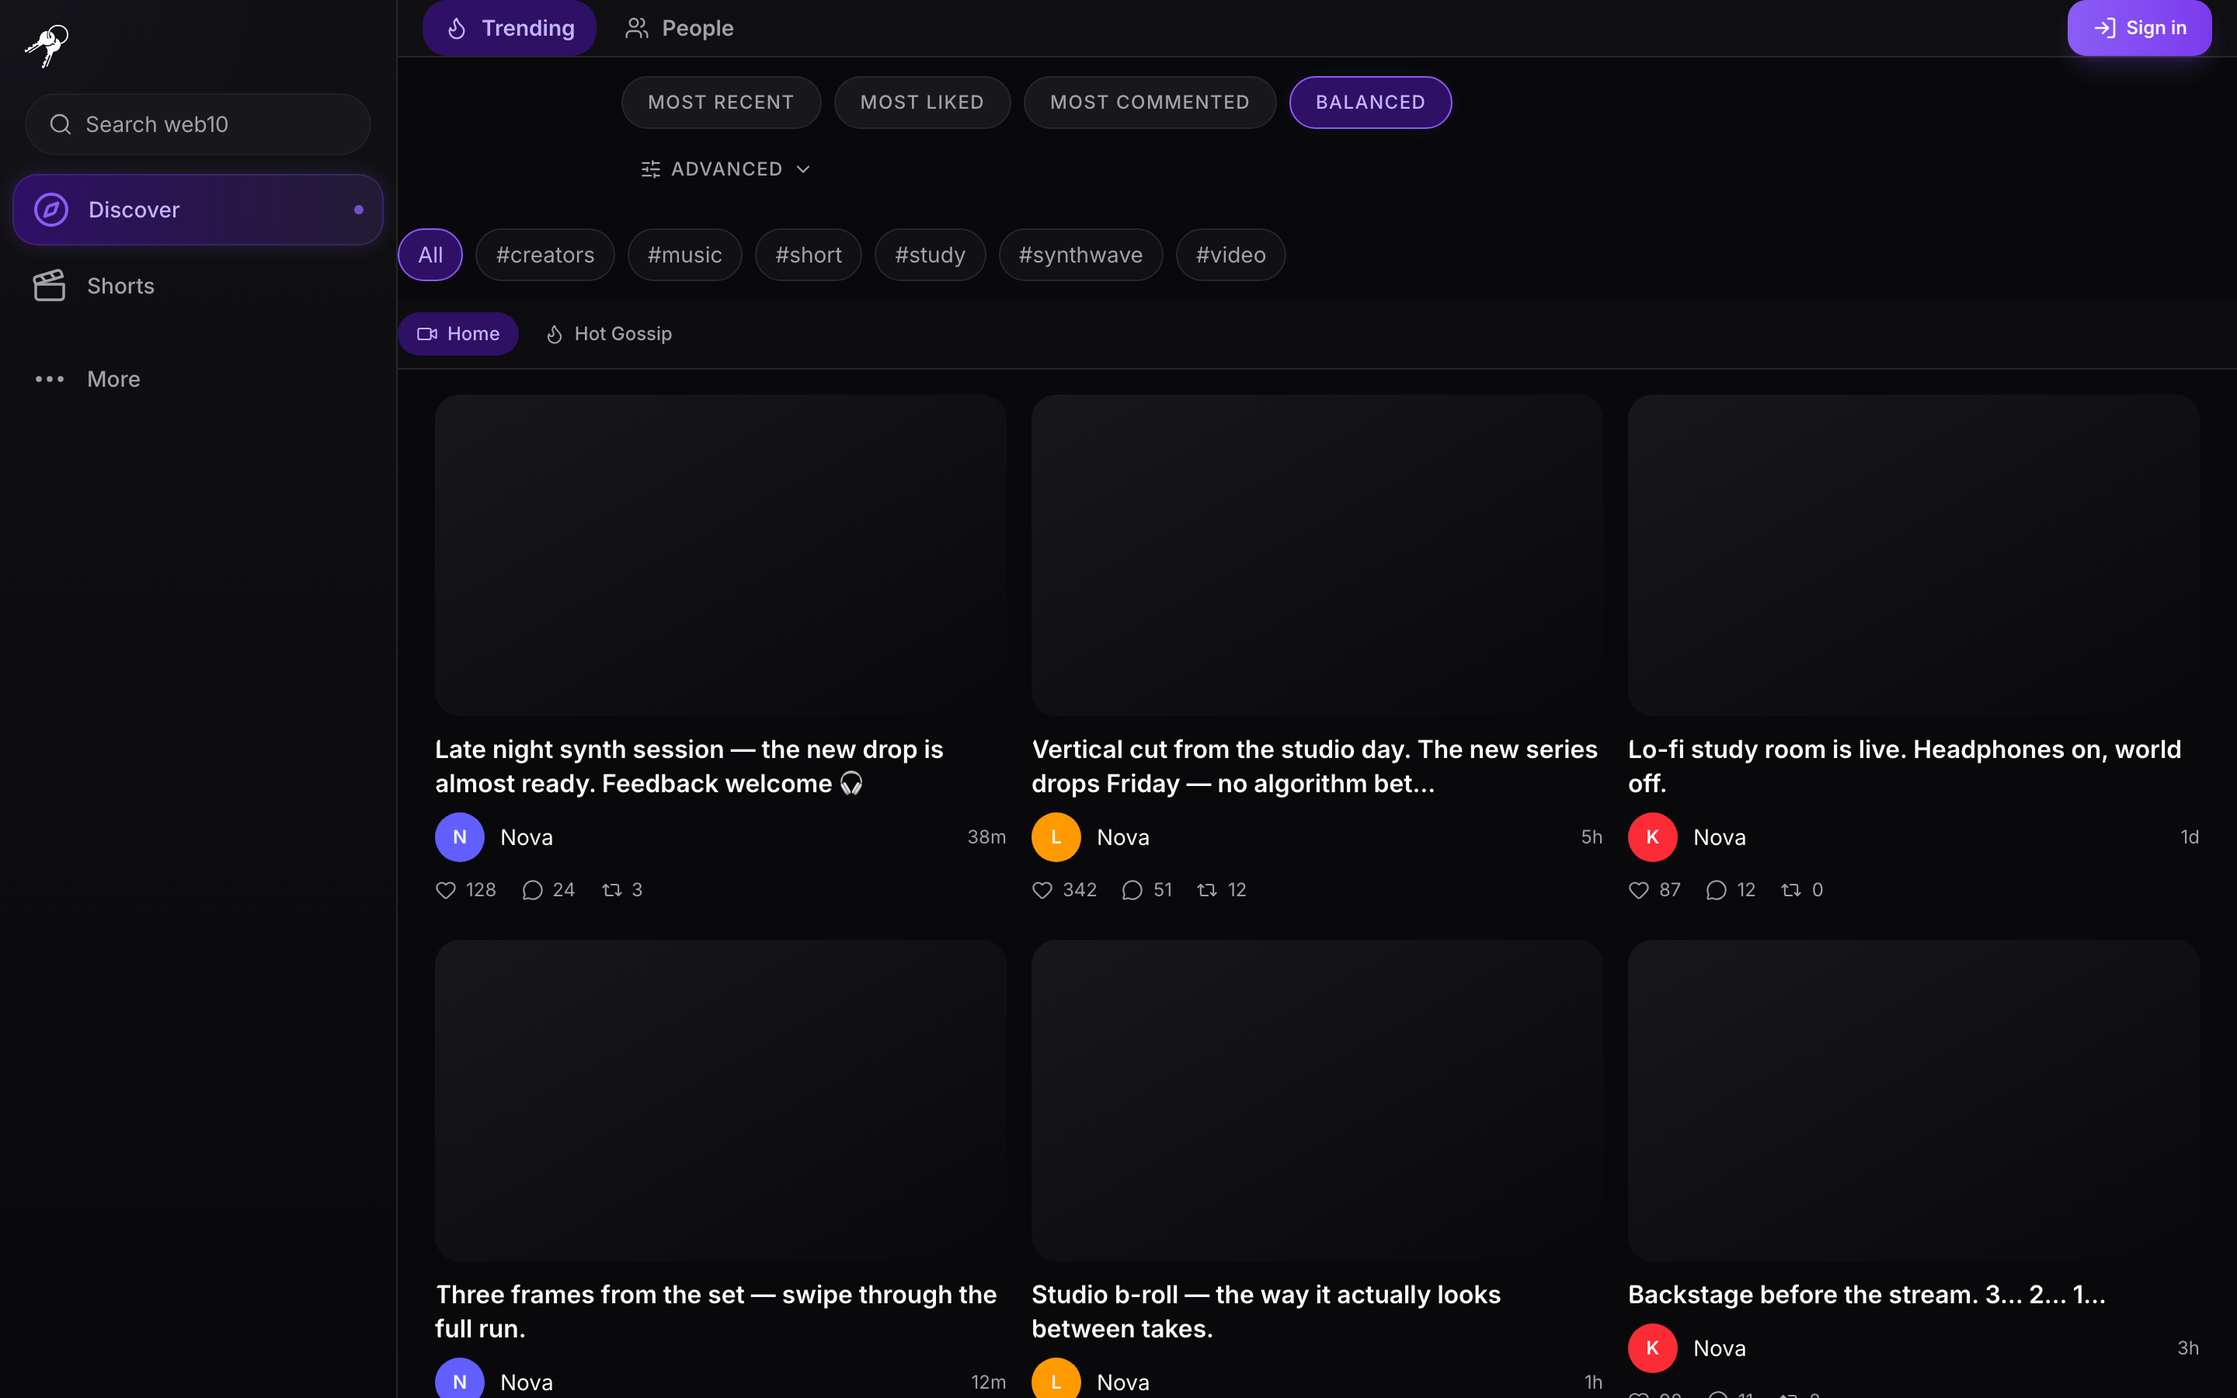
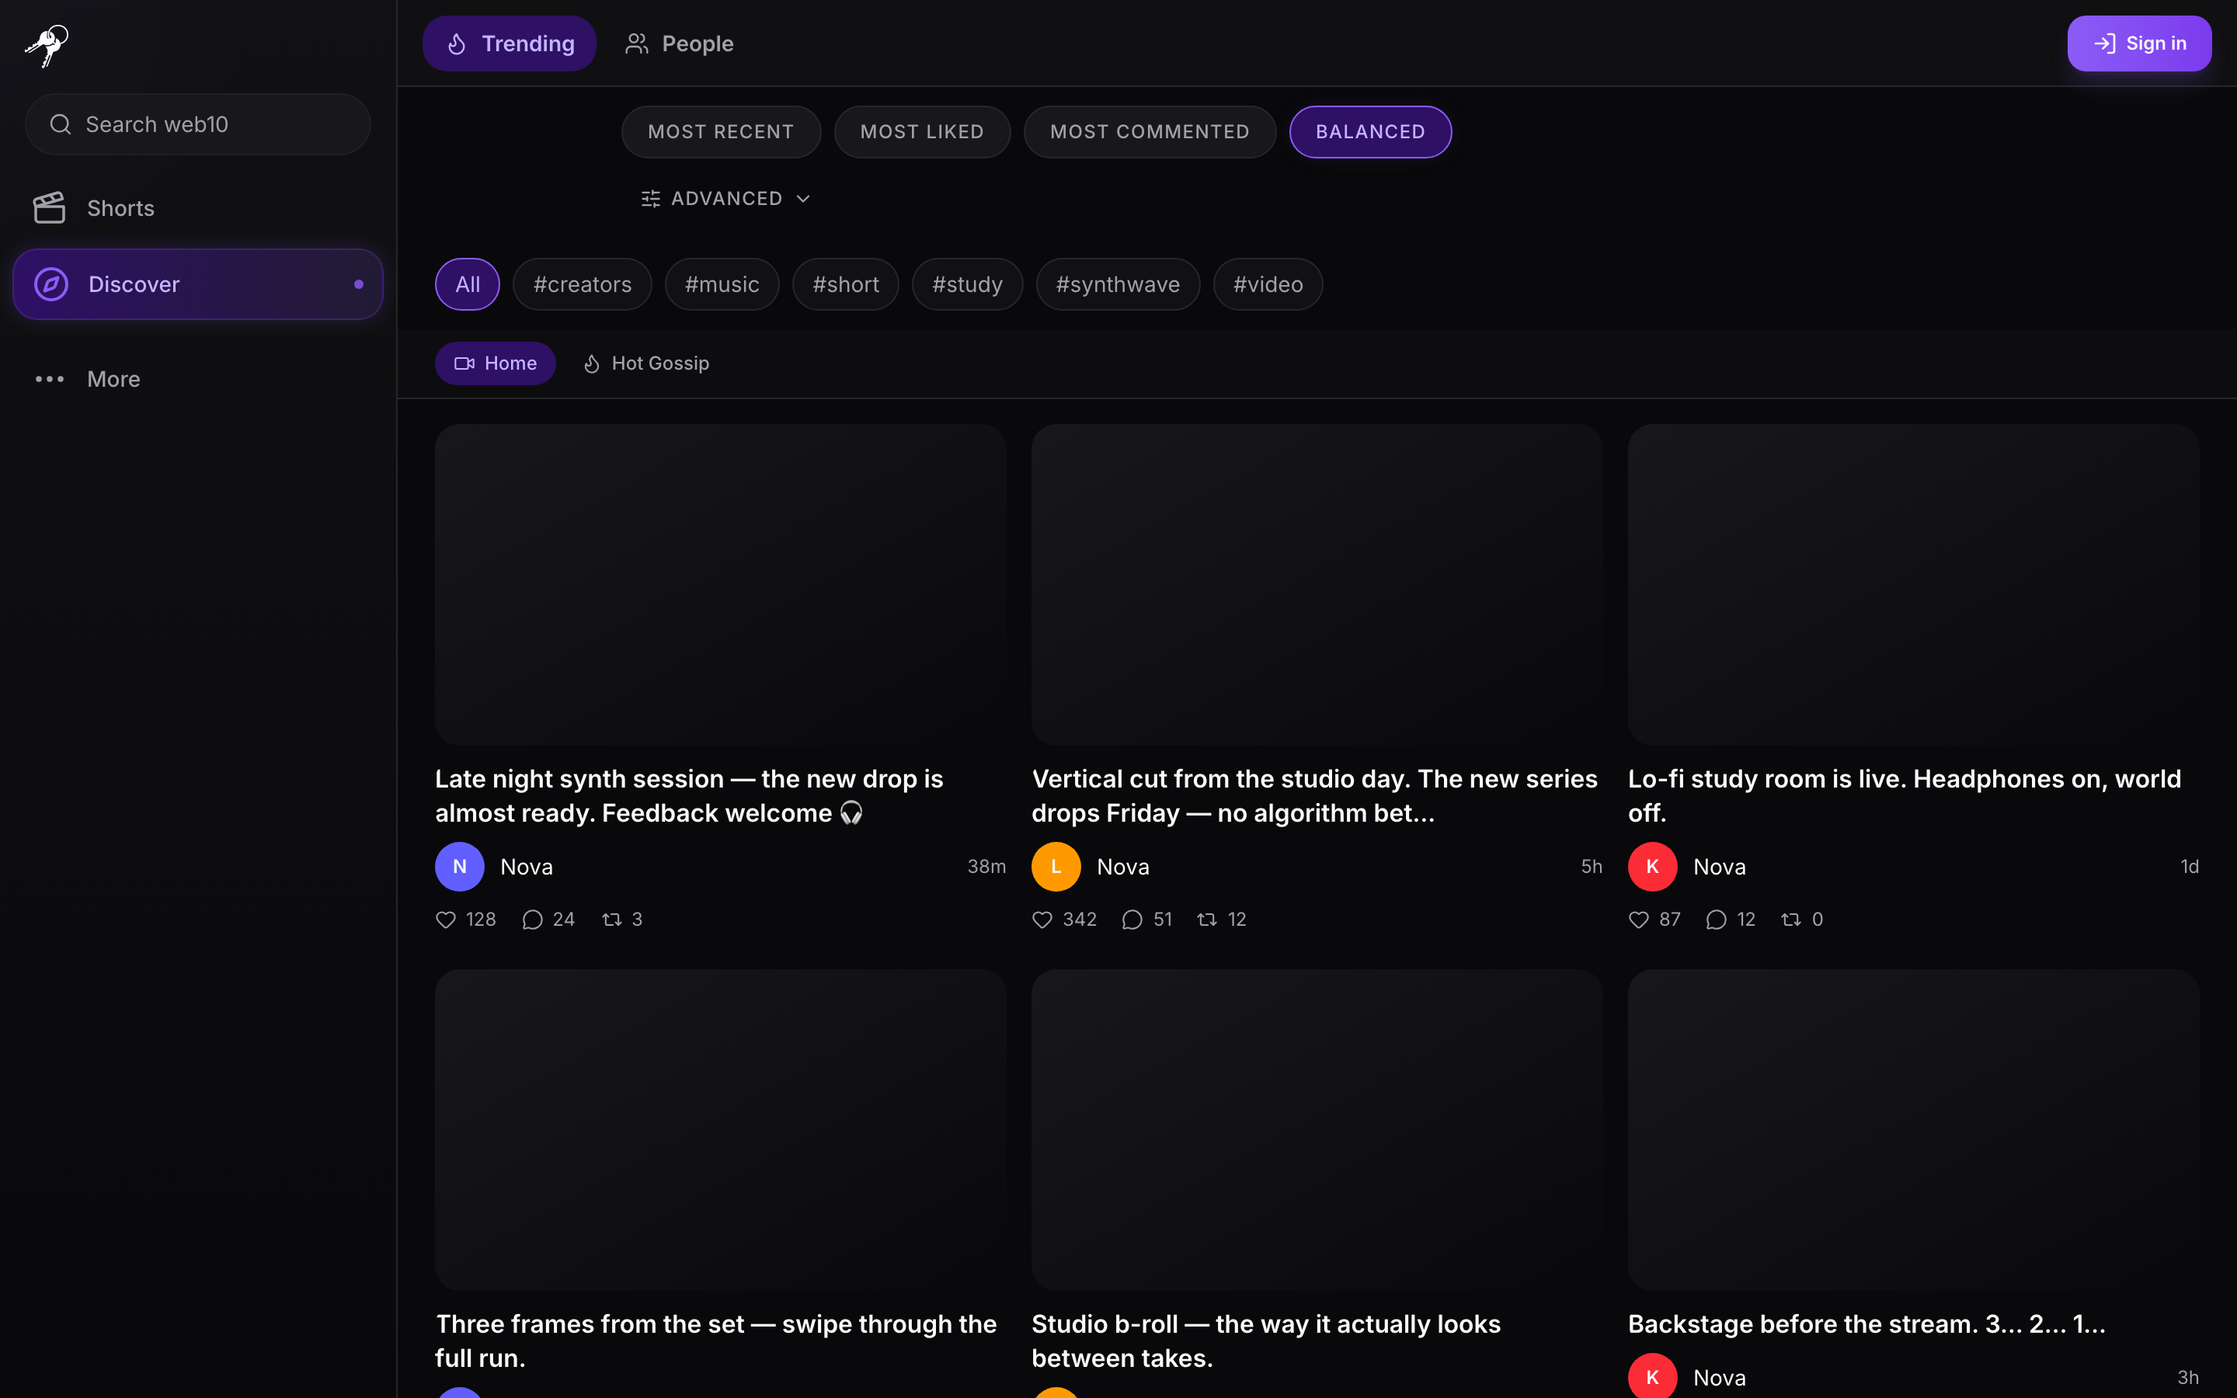
fix(web10-social): anon top bar keeps its height (h-14) + Shorts leads the anon nav (3.165.1)

diff --git a/marketing/web10-social/src/__tests__/socialScreens.test.tsx b/marketing/web10-social/src/__tests__/socialScreens.test.tsx
@@ -1147,6 +1147,48 @@ describe('Layout', () => {
     // The mobile top bar "New post" button is gone.
     expect(screen.queryByTestId('new-post-button-mobile')).not.toBeInTheDocument();
   });
+
+  it('anon chrome: Shorts leads the nav (the operator: "shorts should be first!!!!")', async () => {
+    const { default: Layout } = await import('@/components/Social/Layout');
+    render(
+      <MemoryRouter initialEntries={['/discover']}>
+        <Layout onLogout={() => {}} onLogin={() => {}} isAnon onReportBug={() => {}}>
+          <div>Content</div>
+        </Layout>
+      </MemoryRouter>,
+    );
+    // Desktop sidebar: Shorts is the FIRST nav row, Discover second.
+    const sidebarNav = screen.getByLabelText('Primary');
+    const sidebarItems = Array.from(sidebarNav.querySelectorAll('[data-testid]'))
+      .map((el) => el.getAttribute('data-testid'))
+      .filter((id) => id?.startsWith('nav-'));
+    expect(sidebarItems.indexOf('nav-shorts')).toBeLessThan(sidebarItems.indexOf('nav-discover'));
+    expect(sidebarItems[0]).toBe('nav-shorts');
+    // Mobile bottom nav: Shorts first, Discover second (no More tab in anon).
+    const mobileNav = screen.getByLabelText('Primary mobile');
+    const mobileItems = Array.from(mobileNav.querySelectorAll('[data-testid]'))
+      .map((el) => el.getAttribute('data-testid'))
+      .filter((id) => id?.startsWith('nav-'));
+    expect(mobileItems[0]).toBe('nav-shorts-mobile');
+    expect(mobileItems[1]).toBe('nav-discover-mobile');
+  });
+
+  it('anon chrome: the desktop top bar keeps a fixed height (the Sign in button must not collapse it)', async () => {
+    const { default: Layout } = await import('@/components/Social/Layout');
+    render(
+      <MemoryRouter initialEntries={['/discover']}>
+        <Layout onLogout={() => {}} onLogin={() => {}} isAnon onReportBug={() => {}}>
+          <div>Content</div>
+        </Layout>
+      </MemoryRouter>,
+    );
+    // The anon top bar (Sign in affordance, no account row) is the SAME height
+    // as the signed-in one — a fixed h-14, not content-driven (the missing
+    // profile row used to shrink the bar and throw off the padding).
+    const topbar = screen.getByTestId('topbar-desktop');
+    expect(topbar).toHaveClass('h-14');
+    expect(screen.getByTestId('sign-in-button-desktop')).toBeInTheDocument();
+  });
 });
 
 describe('Anon shell (signed-out visitor)', () => {

diff --git a/marketing/web10-social/src/components/Social/Layout.tsx b/marketing/web10-social/src/components/Social/Layout.tsx
@@ -95,8 +95,11 @@ export default function Layout({ onLogout, onLogin, isAnon: isAnonProp, onReport
   // your Profile, and Monetization are signed-in-only — hiding them keeps the
   // chrome honest (a dead nav item that redirects to Discover is worse than
   // no item).
-  const anonSidebarNavItems = [discoverItem, shortsItem];
-  const anonBottomNavItems = [discoverItem, shortsItem];
+  // Shorts leads the anon nav (the operator, 25.09.2026: "shorts should be
+  // first!!!!") — a signed-out visitor is here for the video, Discover is
+  // second. The signed-in order (M6) is unchanged.
+  const anonSidebarNavItems = [shortsItem, discoverItem];
+  const anonBottomNavItems = [shortsItem, discoverItem];
   const sidebarNavItems = isAnon ? anonSidebarNavItems : [profileItem, shortsItem, discoverItem, feedItem, messagesItem, monetizationItem];
   const bottomNavItems = isAnon ? anonBottomNavItems : [feedItem, discoverItem, messagesItem, profileItem];
   const [moreOpen, setMoreOpen] = useState(false);
@@ -422,7 +425,7 @@ export default function Layout({ onLogout, onLogin, isAnon: isAnonProp, onReport
         {!isShorts && (
           <header
             data-testid="topbar-desktop"
-            className="hidden md:flex items-center justify-between gap-4 border-b border-border bg-surface/95 backdrop-blur-md z-20 px-4"
+            className="hidden md:flex items-center justify-between gap-4 border-b border-border bg-surface/95 backdrop-blur-md z-20 px-4 h-14"
           >
             {isDiscover ? (
               <div className="flex items-center gap-1" role="tablist" aria-label="Discover sections" data-testid="discover-tab-row">

diff --git a/knowledge/strategy/parallel-execution.md b/knowledge/strategy/parallel-execution.md
@@ -195,6 +195,8 @@ Both seams are now retired (3.11.0 auth, 3.12.0 data); what remains is
 the hls.js player and the e2e gauntlet that proves it end-to-end.
  The decision bite gated the seam bites — docs first.
 
+- [✓ 3.165.1] **The anon top bar keeps its height + Shorts leads the anon nav** (operator, 25.09.2026, anon Discover screenshot: "spacing in that topbar is off when not signed in, i think because the profile is missing it threw off the padding but definitely fixable! also shorts should be first!!!!"). Two `Layout.tsx` roots: (1) the desktop top bar was content-driven in height — the signed-in account row (`h-8` avatar + two-line name) set it, so the anon bar (only the `h-9` Sign in button) rendered ~24px shorter, misaligned against the sidebar's keys mark; fixed with `h-14` (the mobile header's existing fixed height) — same bar height in both modes. (2) the anon nav arrays were `[discoverItem, shortsItem]`; now `[shortsItem, discoverItem]` in the sidebar + bottom nav (the signed-in M6 order is unchanged). `socialScreens.test.tsx` +2 (Shorts first in both anon navs; the anon top bar carries `h-14`). 974 web10-social green, `tsc` clean. Screenshots `anon-discover-{desktop,375}.png` re-captured.
+
 - [✓ 3.165.0] **Anon browsing — a signed-out visitor gets the app shell (not the login wall), lands on Discover, and can open a post permalink the marketing site links to** (operator, 25.09.2026, three screenshots: "on the marketing site, i click a video, it sends me to web10 social that is cool! but it opens [the login screen] — it should show the video i clicked! logged in as anon! but then have some kind of easy way to sign in! also when you click web10 social or sign in over there, it should direct you to web10 social as anon user! and show the discover tab! but make it clear you can sign in!"). **The root (the node was already ready, the client wasn't):** the node's `read` endpoint is `user_or_anon` (D58 `anyone` grant) and resolves media server-side (fresh presigned URLs + HLS) — the marketing site proves anon reads work. The blockers were (1) the SDK's `v3Post` threw on a missing token, so `w.read`/`w.readById` couldn't run anon (the SDK already had the anon pattern in `query`/`listPeopleDirectory`), and (2) `App.tsx` rendered a full-screen `LoginScreen`. **The build:** (1) SDK `read`/`readById`/`readRefCounts` anon-capable (the `authPost` + optional-token pattern `query` used; I3 unchanged — the node still enforces the read-gate). (2) `App.tsx` anon mode: the app shell renders (the `LoginScreen` is deleted), default route `/discover`, post permalinks + profiles + shorts render, signed-in-only routes redirect to `/discover`; the post deep-link route loads the post + media for anon (the node returns media inline on the read). (3) `Layout.tsx` anon-aware chrome: the account row + bell swap for a clear **Sign in** button, the nav drops the signed-in-only items (Feed, Messages, Profile, Monetization) leaving Discover + Shorts, the notification banner is hidden; `isAnon` is driven by the same source App uses. (4) `DiscoverScreen.tsx` anon media resolution (the read returns media inline; build the map from those refs) + the composer is hidden for anon. **Tests:** `socialSession.test.ts` re-pinned (a signed-out read goes out WITHOUT a token — it resolves anon, no longer rejects "No token available"); `appAuthListen.test.tsx` + `socialScreens.test.tsx` re-pinned (the signed-out App renders the anon shell with a Sign in affordance, not the login wall). 957 web10-social + 131 sdk green, `tsc` clean. **I3 note:** the access boundary is unchanged — anon reads exactly what the `anyone` grant allows (the discover board, public posts, public profile faces).
 
 - [✓ 3.157.0] **Repost: the repeat icon opens the composer in repost mode on EVERY surface (unify onto the post model)** (operator, 23.09.2026, lightbox screenshot: "when i click the repost button it just toggles it 1 0 1 0, that is WRONG, it should open you up on the feed, or in a post composer or something somewhere else, with that post as the repost to let you make a post sharing that post, so the behavior is outright wrong, definitely adds logistics how to count reposts etc, but lets get that properly working"). **The bug (the documented open follow-up, `social/reposts.md` line 75):** 3.110.0 made a repost a **post** (not a reaction) and wired the **feed** repeat icon → the composer's repost mode (`repostingTo`), but **Discover / PostLightbox / ProfileFeed / Groups still call the legacy `toggleRepost`** (a `type:'repost'` reaction write) — so on those surfaces the repeat icon just flips a reaction doc (the "1 0 1 0" toggle) instead of opening a composer with the post as the repost. **And the count is still legacy:** those surfaces count reposts as `type:'repost'` reactions (`readReactions`/`countReactions`), so even a post-based repost wouldn't move their tally. **The fix:** (1) **write** — route every surface's repeat icon to the composer's repost mode (the feed's `onRepost` → `repostingTo` pattern, lifted to a shared seam) instead of `toggleRepost`; the composer's `createRepost` is the single write. (2) **count** — count reposts as `posts` whose `body.repost_of` points at the post (the feed query's I3-scoped join is the reference), not as `type:'repost'` reactions; the "I reposted this" fill comes from the reader's own repost post (the `readFeedReactions` own-post read is the reference). (3) **logistics** — the repost count is the number of `repost_of` posts (one per reposter, self-healed); a repost is a real post in the reposter's followers group so it resurfaces in their feed as a "reposted" card. **Gates:** the composer's repost mode must be reachable from Discover / Lightbox / Profile / Groups (a shared `onRepost` seam or a global repost state, not four copies); the count + fill re-derive on a post-based write; the legacy `type:'repost'` reaction stays a read-only fallback for old data. **Acceptance bar:** tapping the repeat icon on ANY surface opens the composer with the post as the repost (context block + "Add a comment…"), never a silent toggle; submitting creates a repost post that shows in the reposter's feed + bumps the original's count; the count is stable across refresh (no 1 0 1 0). Lane: `social-v3`.

diff --git a/knowledge/changelogs/CHANGELOG.md b/knowledge/changelogs/CHANGELOG.md
@@ -1,3 +1,5 @@
+3.165.1 || 25.09.2026
+fix(web10-social) + test: **the anon top bar keeps its height (the missing profile row no longer throws off the padding) + Shorts leads the anon nav** — operator pass (25.09.2026, anon Discover screenshot): "spacing in that topbar is off when not signed in, i think because the profile is missing it threw off the padding but definitely fixable! also shorts should be first!!!!" **The root (two, both `Layout.tsx`):** (1) the desktop top bar had NO fixed height — it was content-driven, so the signed-in bar (the account row's `h-8` avatar + two-line name) set the height and the anon bar (only the `h-9` Sign in button) rendered ~24px shorter, misaligning the bar against the sidebar's keys mark + the content below; (2) the anon nav arrays were `[discoverItem, shortsItem]` — Discover first, the opposite of the operator's call. **The fix:** (1) `h-14` on the desktop top bar (the mobile header's existing fixed height) — the bar is now the same height in both modes, the Sign in button centers in it; (2) the anon sidebar + bottom nav arrays are `[shortsItem, discoverItem]` — a signed-out visitor is here for the video, Shorts leads (the signed-in M6 order is unchanged). **Tests:** `socialScreens.test.tsx` +2 (anon: Shorts is the first sidebar row + first bottom-nav tab; the anon top bar carries `h-14` + the Sign in affordance). 974 web10-social tests green, `tsc` clean. Screenshots: `anon-discover-{desktop,375}.png` re-captured (the bar height matches the signed-in chrome; Shorts leads both navs).
 3.165.0 || 25.09.2026
 feat(web10-social) + feat(sdk) + test + docs(kb): **anon browsing — a signed-out visitor gets the app shell (not the login wall), lands on Discover, and can open a post permalink the marketing site links to** — operator pass (25.09.2026, three screenshots): "on the marketing site, i click a video, it sends me to web10 social that is cool! but it opens [the login screen] — it should show the video i clicked! logged in as anon! but then have some kind of easy way to sign in! also when you click web10 social or sign in over there, it should direct you to web10 social as anon user! and show the discover tab! but make it clear you can sign in! so really, supporting anon login with web10 social, that is what i am talking about." **The root (the node was already ready, the client wasn't):** the node's `read` endpoint is `user_or_anon` (D58 `anyone` grant) and resolves media server-side (fresh presigned URLs + HLS) — the marketing site proves anon reads work. The blockers were (1) the SDK's `v3Post` threw on a missing token, so `w.read`/`w.readById` couldn't run anon (the SDK already had the anon pattern in `query`/`listPeopleDirectory`), and (2) `App.tsx` rendered a full-screen `LoginScreen` instead of the app. **The build:** (1) **SDK** (`sdk/src/v3.ts`) — `read`/`readById`/`readRefCounts` become anon-capable: the token rides along when present, but a missing token reads as the node's `anon` member (the `authPost` + optional-token pattern `query` already used). I3 is unchanged — the node still enforces the read-gate; anon only gets what the `anyone`/`authenticated` grants allow. (2) **App.tsx** — anon mode: a signed-out visitor renders the app shell (the full-screen `LoginScreen` is deleted), the default route is `/discover` (the public ledger), post permalinks (`/u/:u/p/:id`) + profiles + shorts render, and the signed-in-only routes (feed, messages, notifications, settings, monetize, staging, your own profile, the follow lists) redirect to `/discover`. The post deep-link route loads the post + media for anon (the node returns media inline on the read; the signed-in path is unchanged). (3) **Layout.tsx** — anon-aware chrome: the account row + notification bell swap for a clear **Sign in** button (the operator: "make it clear you can sign in"), the nav drops the signed-in-only items (Feed, Messages, your Profile, Monetization) leaving Discover + Shorts, and the notification banner is hidden. `isAnon` is driven by the same source App uses (`getSocialAuth().isSignedIn()`) so the chrome and the routes agree. (4) **DiscoverScreen.tsx** — anon media resolution: the read already returns media inline (the node's `resolve_media_urls_in_docs`), so an anon visitor builds the media map from those inline refs (no token to re-presign with); the composer is hidden (a signed-out visitor can't post). **Tests:** `socialSession.test.ts` re-pinned (a signed-out read now goes out WITHOUT a token — it resolves anon, no longer rejects "No token available"); `appAuthListen.test.tsx` + `socialScreens.test.tsx` re-pinned (the signed-out App renders the anon shell with a Sign in affordance, not the login wall). 957 web10-social + 131 sdk green, `tsc` clean. Screenshots: the anon shell (desktop + 375) — Discover board + Sign in button, no composer / no notification banner. **I3 note:** this does not loosen the access boundary — the node's read-gate is unchanged; anon reads exactly what the `anyone` grant allows (the discover board, public posts, public profile faces).
 3.164.1 || 25.09.2026
